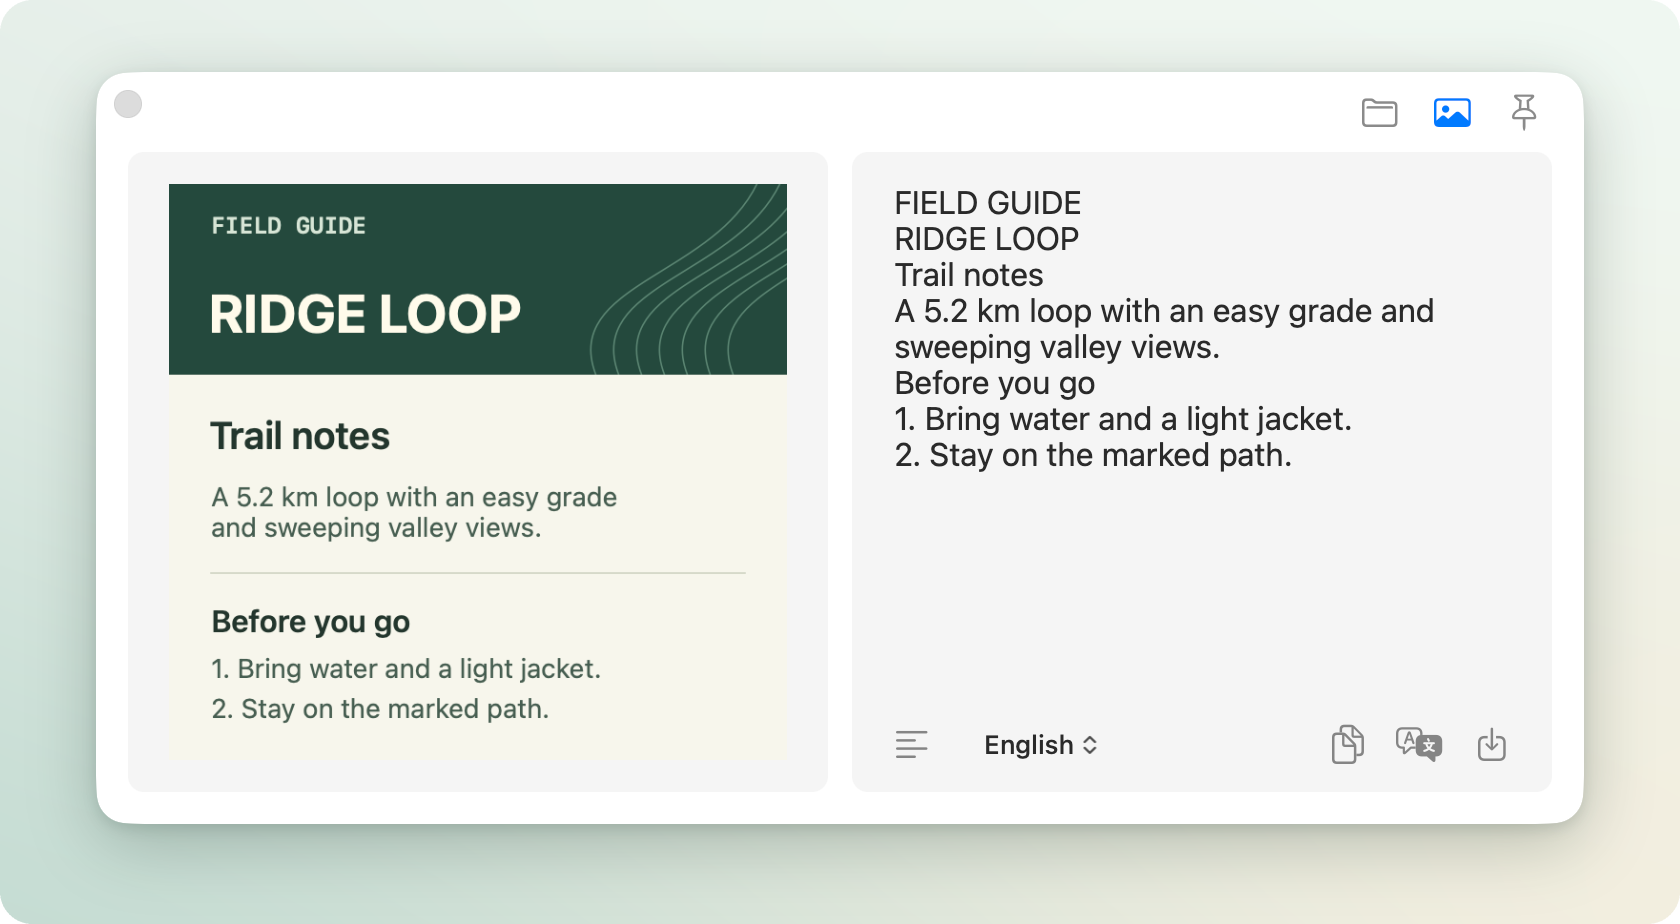
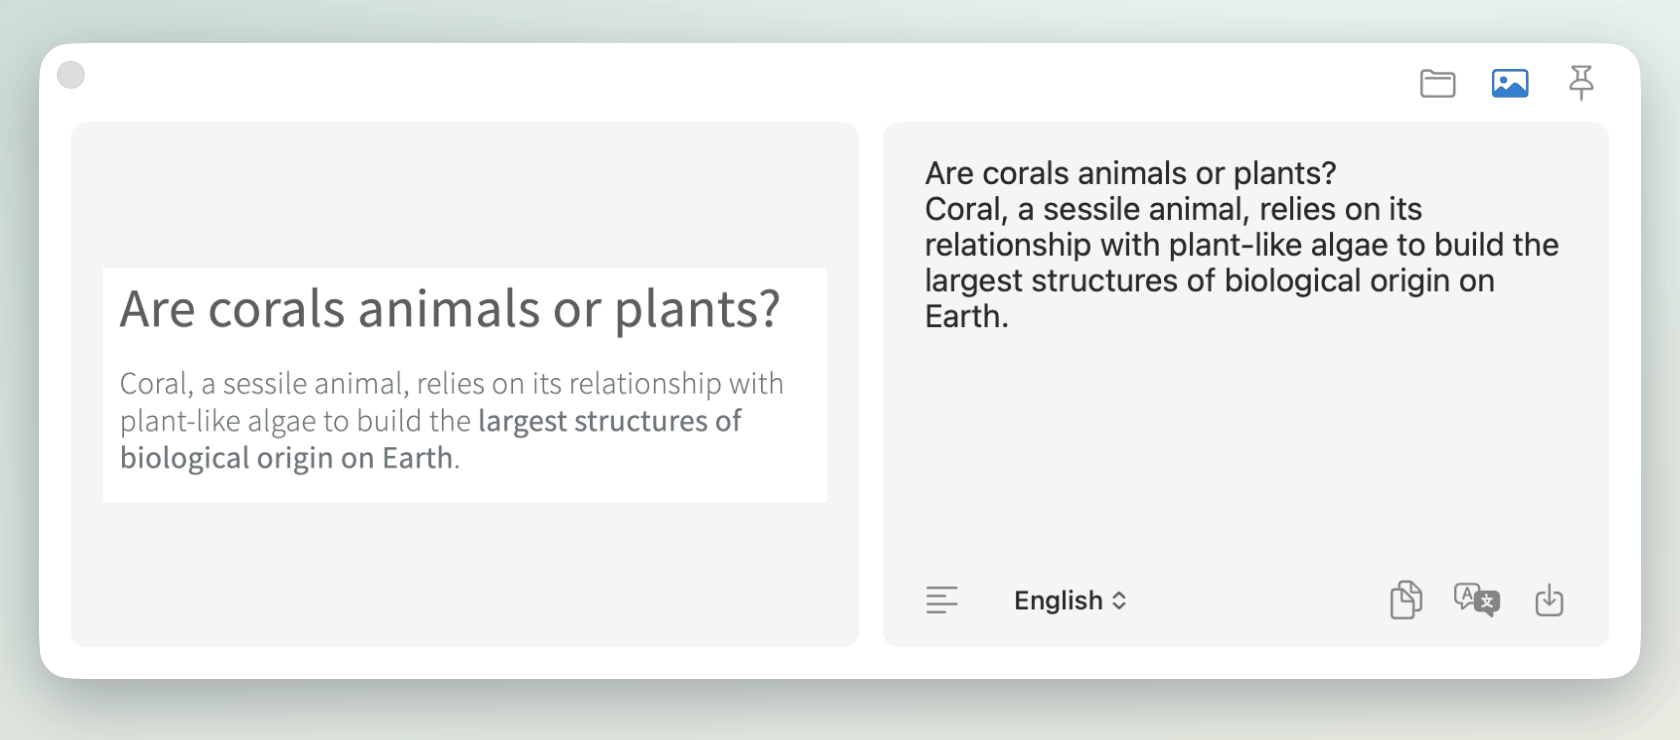
Complete bilingual feature docs and update real-world screenshots

diff --git a/README.zh-CN.md b/README.zh-CN.md
@@ -27,8 +27,8 @@
 
 <p align="center">
   <picture>
-    <source media="(prefers-color-scheme: dark)" srcset="Docs/assets/hero-dark.png" />
-    <img src="Docs/assets/hero-light.png" width="840" alt="Seven 翻译浮窗，展示英文原文、西班牙语译文，以及含表格、列表和可复制代码块的 Markdown 结果" />
+    <source media="(prefers-color-scheme: dark)" srcset="Docs/assets/hero-dark-zh-CN.png" />
+    <img src="Docs/assets/hero-light-zh-CN.png" width="840" alt="Seven 翻译浮窗，展示英文原文、简体中文译文，以及含表格、列表和可复制代码块的 Markdown 结果" />
   </picture>
 </p>
 
@@ -40,9 +40,12 @@
 
 ### 跨应用翻译与改写
 
-- **在手头的应用里翻译** —— 划词、输入或截图即可翻译，也可以用「翻译并替换」将结果写回原输入框。
-- **自选翻译服务** —— 支持 Apple 翻译、有道、Google 和可下载的离线英汉词典，也可用自己的 API Key 接入 OpenAI、Claude、Gemini 等服务或自定义兼容接口，流式查看结果。
-- **AI 自定义结果的原生 Markdown 排版（已进入 `main`）** —— 在结果卡片中直接阅读表格、引用和列表，单个代码块可一键复制。Markdown 排版下按纯文本朗读，跳过代码块和链接地址。
+- **跨应用划词与输入翻译** —— 在其他应用选中文字后按 `⌥D`，或按 `⌥A` 打开输入浮窗。目标语言可自动按第一、第二语言选择，也可手动指定。
+- **截图翻译** —— 按 `⌥S` 框选网页图片、视频字幕等无法直接选取的文字。Seven 先在本机识别，再把文字送入翻译浮窗。
+- **翻译并替换** —— 在可编辑的输入框选中文字后按 `⌃⌥T`。Seven 核对原输入框及选区后，将结果写回原处。
+- **翻译服务与朗读** —— 支持 Apple 翻译、有道、Google 和可下载的离线英汉词典。也可用自己的 API Key 接入 OpenAI、Claude、Gemini、DeepSeek 等流式服务或兼容接口。原文和结果均可复制及朗读。
+- **AI 自定义提示词（Markdown 排版已进入 `main`）** —— 用同一个浮窗总结、改写或提取要点。结果卡片原生显示表格、引用和列表，代码块可一键复制。按纯文本朗读时跳过代码块和链接地址。
+- **历史和收藏** —— 按原文或译文搜索多服务记录，把常用结果单独收藏，并将当前集合导出为 JSON 或 Markdown。
 
 <details>
 <summary>自定义提示词变量与消息发送规则</summary>
@@ -56,22 +59,44 @@
 
 ### 截图、标注与钉图
 
-- **选准画面再标注** —— 冻结屏幕后框选区域或点选窗口，添加箭头、形状、序号或马赛克，再按原始分辨率导出。
-- **滚动截取长图** —— 向上或向下滚动时实时拼接，边截边预览，保留完整分辨率。
-- **让参考内容留在眼前** —— 将截图、剪贴板图片或纯文字钉在其他窗口上方，可调节缩放和不透明度。
+- **区域、整窗与智能选区** —— 冻结屏幕后拖选区域或点选窗口，也可组合多个窗口、恢复上次选区或复制 HEX 色值。开启智能选区后可选取窗口里的控件。
+- **无损标注** —— 添加箭头、形状、序号、文字、马赛克或聚焦高亮。可撤销、重做，并按原始分辨率导出 PNG/JPG 或通过 macOS 分享。
 
 <p align="center">
-  <img src="Docs/assets/screenshot-editor.png" width="840" alt="Seven 截图编辑器，展示浮动工具条，以及虚构仪表板上的箭头、序号标注和马赛克" />
+  <img src="Docs/assets/screenshot-editor.png" width="840" alt="Seven 截图编辑器，展示公开科普网页上的箭头、矩形和序号标注，以及浮动工具条" />
+</p>
+
+#### 滚动长截图
+
+向上或向下滚动时实时拼接并预览。完成后可继续标注、复制、保存、分享、钉图或提取文字。
+
+<p align="center">
+  <img src="Docs/assets/scroll-capture-zh-CN.png" width="840" alt="向下滚动后的网页选区、Seven 的完整长截图预览及中文拼接状态" />
+</p>
+
+#### 悬浮钉图
+
+将截图、剪贴板图片或文字固定在其他窗口上方。可调整缩放和不透明度，也可在原处重新标注。
+
+<p align="center">
+  <img src="Docs/assets/floating-pin.png" width="840" alt="珊瑚照片悬浮在原网页正文上方，方便边阅读边对照" />
 </p>
 
 ### 在本机提取文字
 
-- **对照原图处理文字** —— 直接在图上选字，对照原图编辑识别结果，再翻译或导出 TXT。静默 OCR 会将识别结果直接复制到剪贴板。
-- **从屏幕或图片开始** —— 框选屏幕区域，或通过 Finder、拖放、剪贴板将图片送入 OCR。
+- **本机 OCR 与智能排版** —— Vision 在设备上识别文字。识别后可在原图中直接选择文字，在旁边编辑、整理段落、翻译或导出 TXT。
+- **静默 OCR 与图片导入** —— 将识别结果直接复制到剪贴板，或通过 Finder「打开方式」、拖放和剪贴板导入图片。也可直接导入本地图片进行标注。
 
 <p align="center">
-  <img src="Docs/assets/ocr-window.png" width="840" alt="Seven 的 OCR 窗口，左侧为示例指南原图，右侧为可编辑的识别文本" />
+  <img src="Docs/assets/ocr-window-zh-CN.png" width="840" alt="Seven 的 OCR 窗口，左侧为公开科普网页截取的原图，右侧为可编辑的识别文本" />
 </p>
+
+截图素材来自 [NOAA 国家海洋局的珊瑚科普文章](https://oceanservice.noaa.gov/facts/coral.html)。
+
+### 按自己的习惯设置
+
+- 在设置中调整常用语言、翻译服务顺序、全局快捷键和截图工具条。浮窗可跟随鼠标或记住位置，也可钉住。
+- 支持系统外观、浅色和深色主题、减弱动态效果以及六种界面语言（简中、繁中、英、日、韩、西）。
 
 ## 下载
 

diff --git a/README.md b/README.md
@@ -40,9 +40,12 @@ Replace three separate utilities with one lightweight, native menu bar app. Tran
 
 ### Translate and rewrite across apps
 
-- **Translate where you work** — Translate selected text, typed text, or a screenshot. Use **Translate & Replace** to write the result back into the original field.
-- **Choose your translation service** — Use Apple Translation, Youdao, Google, or a downloadable offline English–Chinese dictionary. Stream results with your own API key from services such as OpenAI, Claude, and Gemini, or use a compatible endpoint.
-- **Native Markdown for custom AI results (on `main`)** — Read tables, block quotes, and lists in the result card, and copy individual code blocks in one click. Read-aloud uses plain text and skips code blocks and link URLs when Markdown is displayed.
+- **Selection and input translation** — Select text in another app and press `⌥D`, or open the input panel with `⌥A`. Choose a target language directly or let Seven pick between your two preferred languages.
+- **Screenshot translation** — Press `⌥S` and select text you can't highlight, such as text in an image or subtitles. Seven recognizes the text on your Mac and passes it to the translation panel.
+- **Translate & Replace** — Select text in an editable field and press `⌃⌥T`. Seven verifies the original field and selection before writing the translation back.
+- **Translation services and read-aloud** — Use Apple Translation, Youdao, Google, or a downloadable offline English–Chinese dictionary. Bring an API key for streaming services such as OpenAI, Claude, Gemini, and DeepSeek, or use a compatible endpoint. Copy or listen to the input and results.
+- **Custom AI prompts (Markdown rendering on `main`)** — Summarize, rewrite, or extract key points in the same panel. Result cards render tables, block quotes, and lists natively and let you copy individual code blocks. Plain-text read-aloud skips code blocks and link URLs.
+- **History and favorites** — Search original text and translations across services, keep favorites in a separate collection, and export either collection as JSON or Markdown.
 
 <details>
 <summary>Custom prompt variables and message routing</summary>
@@ -56,22 +59,44 @@ Custom mode uses one prompt. `{{target}}` inserts the selected target language, 
 
 ### Capture, annotate, and pin
 
-- **Capture precisely** — Freeze the screen to select a region or window. Add arrows, shapes, numbered callouts, or pixelation, then export at the original resolution.
-- **Capture long pages** — Scroll up or down to stitch a full-resolution screenshot with a live preview.
-- **Keep a reference in view** — Pin a screenshot, clipboard image, or plain text above other windows and adjust its zoom and opacity.
+- **Regions, windows, and smart selection** — Freeze the screen to select an area or window, combine multiple windows, restore the last region, or copy a HEX color. Enable smart selection to pick controls inside windows.
+- **Non-destructive annotation** — Add arrows, shapes, numbered callouts, text, pixelation, or a spotlight. Undo or redo edits, export PNG or JPG at the original resolution, or use the macOS Share menu.
 
 <p align="center">
-  <img src="Docs/assets/screenshot-editor.png" width="840" alt="Seven's screenshot editor with a floating toolbar, an arrow, numbered callouts, and a pixelated run ID on a sample dashboard" />
+  <img src="Docs/assets/screenshot-editor.png" width="840" alt="Seven's screenshot editor with a floating toolbar, an arrow, a rectangle, and a numbered callout on a public science article" />
+</p>
+
+#### Scrolling capture
+
+Scroll up or down to stitch a long screenshot with a live preview. Annotate, copy, save, share, pin, or extract text from the result.
+
+<p align="center">
+  <img src="Docs/assets/scroll-capture.png" width="840" alt="A scrolled selection beside Seven’s live stitched preview and capture controls" />
+</p>
+
+#### Floating pins
+
+Keep a screenshot, clipboard image, or text above other windows. Adjust zoom and opacity or annotate the pin in place.
+
+<p align="center">
+  <img src="Docs/assets/floating-pin.png" width="840" alt="A floating coral photo pinned above the public article for reference" />
 </p>
 
 ### Extract text on your Mac
 
-- **Work with text from images** — Select text directly on an image, edit it alongside the original, then translate it or export it as TXT. Silent OCR copies the result to your clipboard.
-- **Start from a region or an image** — Capture part of the screen or send an image to OCR from Finder, drag and drop, or the clipboard.
+- **On-device OCR and smart layout** — Apple Vision recognizes text on your Mac. Select text directly on the image and use the adjacent pane to edit, reflow paragraphs, translate, or export it as TXT.
+- **Silent OCR and image import** — Copy recognition results straight to the clipboard, or send an image to OCR from Finder's Open With menu, drag and drop, or the clipboard. You can also open local images for annotation.
 
 <p align="center">
-  <img src="Docs/assets/ocr-window.png" width="840" alt="Seven's OCR window showing a sample field guide next to its editable recognized text" />
+  <img src="Docs/assets/ocr-window.png" width="840" alt="Seven's OCR window showing a crop from a public science article next to its editable recognized text" />
 </p>
+
+The screenshots use a public [NOAA National Ocean Service article about corals](https://oceanservice.noaa.gov/facts/coral.html).
+
+### Make it yours
+
+- Set common languages, translation service order, global shortcuts, and screenshot toolbar actions. The translation panel can follow the pointer, remember its position, or stay pinned.
+- Choose from system, light, and dark appearances, with Reduce Motion support and six interface languages (English, Simplified Chinese, Traditional Chinese, Japanese, Korean, and Spanish).
 
 ## Download
 
